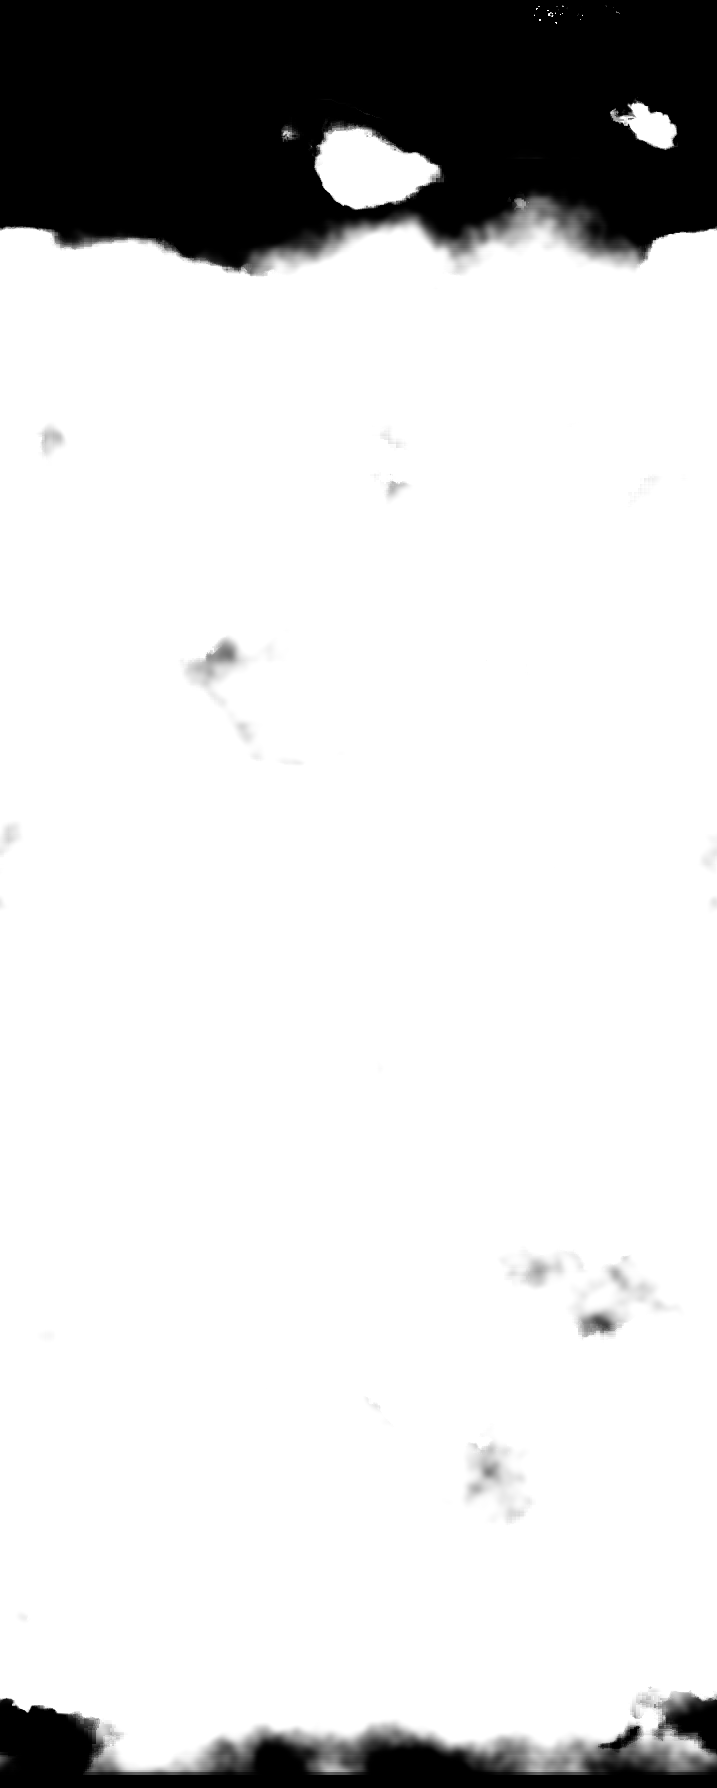
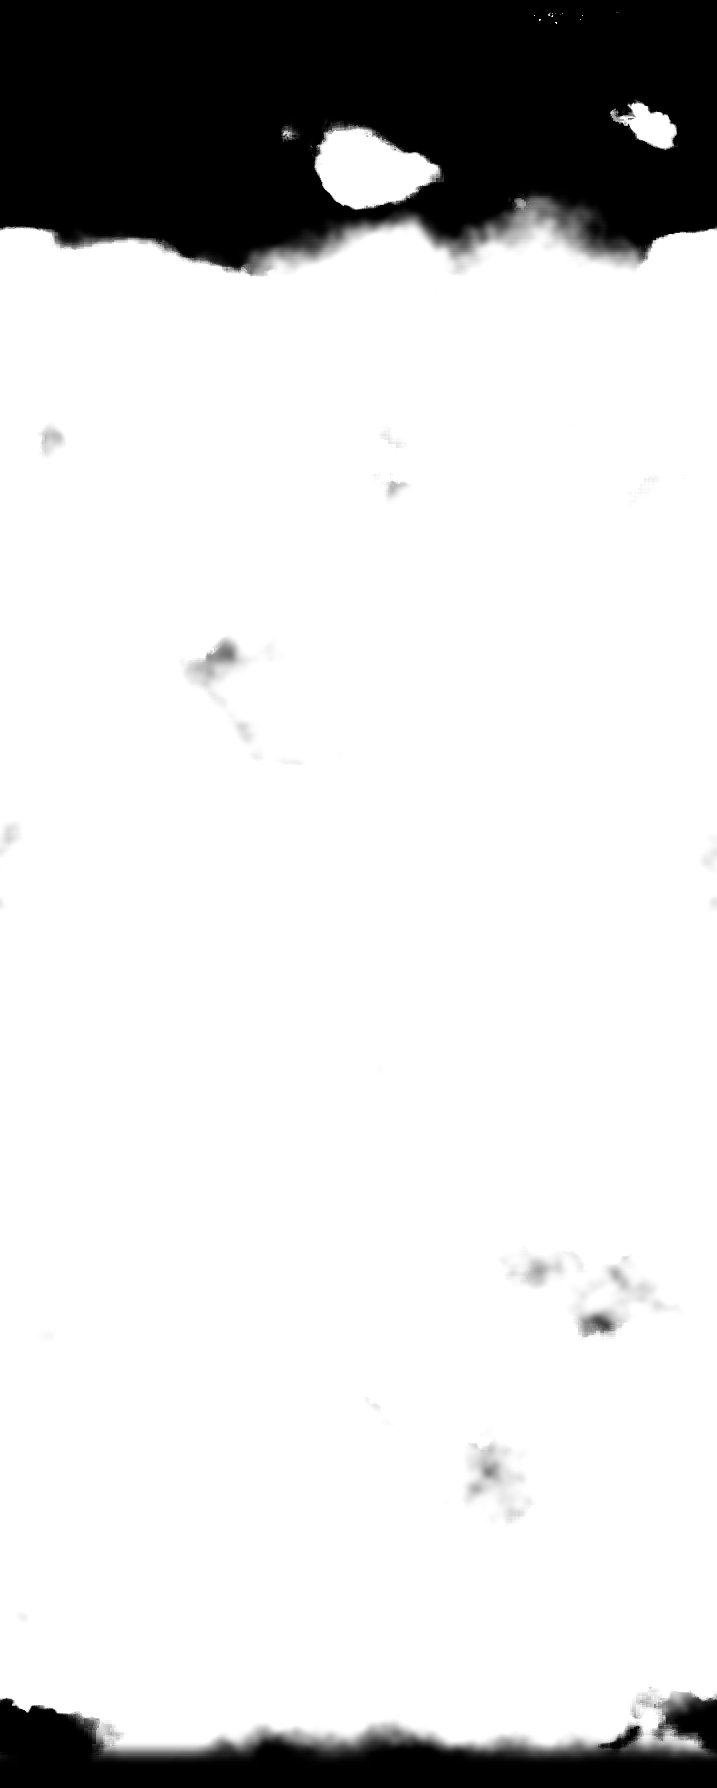
Lighting (a try): a sun breaking through, and cloud shadows
A warm glow with soft rays up on the right, over the sky and behind the
logo and the bank; it brightens as you scroll and its rays turn slowly.
The puffs cast soft shadows on the bank and the wisps on the texts, down
and to the left, drifting with them. The logo's mask ignores the thinnest
haze (it cut into the trailer button at rest), and the button is no
longer masked. Before: the tag pre-lighting.

Changed region(s): [[0.6137, 0.9536, 1.0, 1.0], [0.1227, 0.9536, 0.3682, 1.0], [0.4296, 0.9536, 0.5216, 1.0]]

diff --git a/public/style.css b/public/style.css
@@ -135,6 +135,32 @@ html, body { background: var(--page, #939ca2); transition: background-color 0.4s
   transform: translate3d(0, var(--sky-y, 0px), 0);
   will-change: transform;
 }
+/* The sun behind the clouds, up and to the right: a warm glow with soft rays, over the
+   sky photo and behind the logo and the cloud bank. main.js sets --sun (0 to 1): it
+   breaks through as you scroll, and sinks a little with the sky. */
+.intro-logo::after {
+  content: "";
+  position: absolute;
+  z-index: -1;
+  left: 50%;
+  top: 6%;
+  width: 150vmax;
+  height: 150vmax;
+  margin-left: -45vmax;
+  margin-top: -75vmax;
+  pointer-events: none;
+  background:
+    radial-gradient(closest-side, rgba(255, 244, 222, 0.85), rgba(255, 236, 205, 0.35) 18%, rgba(255, 230, 200, 0.08) 45%, transparent 70%),
+    repeating-conic-gradient(from 0deg, rgba(255, 240, 215, 0.07) 0deg, transparent 4deg 13deg, rgba(255, 240, 215, 0.07) 17deg),
+    repeating-conic-gradient(from 7deg, rgba(255, 240, 215, 0.05) 0deg, transparent 3deg 6deg, rgba(255, 240, 215, 0.05) 9deg);
+  -webkit-mask: radial-gradient(closest-side, #000 10%, rgba(0, 0, 0, 0.5) 40%, transparent 72%);
+  mask: radial-gradient(closest-side, #000 10%, rgba(0, 0, 0, 0.5) 40%, transparent 72%);
+  mix-blend-mode: screen;
+  filter: blur(3px);
+  opacity: var(--sun, 0.4);
+  transform: translate3d(0, calc(var(--sky-y, 0px) * 0.8), 0) rotate(var(--sun-turn, 0deg));
+  will-change: transform, opacity;
+}
 /* The logo with a very faint glow baked in (the glow adds 5.3% of the width around it;
    baked in because iPhone Safari can paint CSS-glowed images as white boxes). */
 .intro-logo picture { display: contents; } /* the image lays out as before */
@@ -208,10 +234,16 @@ html, body { background: var(--page, #939ca2); transition: background-color 0.4s
   animation: cloud-drift 55s linear infinite;
   will-change: transform;
 }
-.clouds-mid { z-index: 2; --layer-h: 360vh; height: var(--layer-h); }
+.clouds-mid { z-index: 3; --layer-h: 360vh; height: var(--layer-h); }
 .clouds-mid div { background-image: url(clouds-mid.webp); }
-.clouds-veil { z-index: 4; --layer-h: 480vh; height: var(--layer-h); }
+.clouds-veil { z-index: 6; --layer-h: 480vh; height: var(--layer-h); }
 .clouds-veil div { background-image: url(clouds-veil.webp); animation-duration: 40s; }
+/* Their shadows, cast down and to the left (the sun is up on the right): the same
+   puffs, dark and blurred, a little lower, just under them (the puffs' on the bank,
+   the wisps' on the texts), drifting with them. */
+.cloud-layer.shadow div { filter: brightness(0) blur(18px); }
+.clouds-mid.shadow { z-index: 2; opacity: 0.2; }
+.clouds-veil.shadow { z-index: 5; opacity: 0.16; }
 @media (prefers-reduced-motion: reduce) {
   .cloud-layer div { animation: none; }
 }
@@ -231,7 +263,7 @@ html, body { background: var(--page, #939ca2); transition: background-color 0.4s
   top: 0;
   left: 0;
   right: 0;
-  z-index: 3; /* above the clouds and the puffs behind it, below the thin wisps and the menu */
+  z-index: 4; /* above the clouds and the puffs behind it, below the wisps (and their shadows) and the menu */
   height: 100vh;
   height: 100svh;
   pointer-events: none;

diff --git a/public/main.js b/public/main.js
@@ -24,7 +24,13 @@ const cloudTile = document.querySelector(".clouds");
 // Clouds nearer than the bank, and how much faster than it they move: puffs behind the
 // texts, thin wisps in front of them. Their tops are at the top of the screen when the
 // bank's edge (12% down it) reaches the middle of the screen.
-const cloudLayers = [[document.querySelector(".clouds-mid"), 1.3], [document.querySelector(".clouds-veil"), 1.7]];
+// Each also casts a shadow, a little lower and to the left (in screen heights).
+const cloudLayers = [
+  [document.querySelector(".clouds-mid:not(.shadow)"), 1.3, 0, 0],
+  [document.querySelector(".clouds-mid.shadow"), 1.3, 0.07, -0.03],
+  [document.querySelector(".clouds-veil:not(.shadow)"), 1.7, 0, 0],
+  [document.querySelector(".clouds-veil.shadow"), 1.7, 0.05, -0.02]
+];
 const watch = document.querySelector(".intro-logo .watch");
 
 // 0 before a, 1 after b, linear in between.
@@ -95,20 +101,25 @@ function update() {
 
   // The sky behind the logo moves up, at a third of the scrolling (it's far away).
   introLogo.style.setProperty("--sky-y", `${(-0.35 * Math.min(window.scrollY, logoHold.offsetHeight)).toFixed(1)}px`);
+  // The sun breaks through as you scroll (brightest as the clouds come over the logo),
+  // its rays turning slowly.
+  const sunUp = Math.min(1, window.scrollY / (0.6 * vh));
+  introLogo.style.setProperty("--sun", (0.35 + 0.65 * ease(sunUp)).toFixed(3));
+  introLogo.style.setProperty("--sun-turn", `${(window.scrollY * 0.01).toFixed(2)}deg`);
 
   // The nearer clouds.
   const edgeAtMiddle = 0.5 * vh - 0.12 * bank.height;
-  for (const [layer, speed] of cloudLayers) {
-    const ly = speed * (bank.top - edgeAtMiddle);
+  for (const [layer, speed, down, side] of cloudLayers) {
+    const ly = speed * (bank.top - edgeAtMiddle) + down * vh;
     layer.style.visibility = ly < vh && ly + layer.offsetHeight > 0 ? "visible" : "hidden";
-    layer.style.transform = `translate3d(0, ${ly.toFixed(1)}px, 0)`;
+    layer.style.transform = `translate3d(${(side * vh).toFixed(1)}px, ${ly.toFixed(1)}px, 0)`;
   }
 
-  // The logo and its button go behind the bank: masked with clouds-mask.webp (clear
+  // The logo goes behind the bank (not its button, which stays readable): masked with clouds-mask.webp (clear
   // where the bank has any cloud, even haze), kept on the bank's place and its drift,
   // and in full above the bank's top. Followed frame by frame while the bank's edge is
   // over them (the bank keeps drifting when the page doesn't scroll).
-  for (const el of [logo, watch]) {
+  for (const el of [logo]) {
     const r = el.getBoundingClientRect();
     const k = el.offsetWidth ? r.width / el.offsetWidth : 1; // the logo's own shrinking
     const my = (bank.top - r.top) / k;

diff --git a/public/index.html b/public/index.html
@@ -102,9 +102,11 @@
       </figure>
     </div>
 
-  <!-- Clouds at other depths, nearer than the bank: puffs behind the texts, thin wisps
-       in front of them (main.js moves them, faster than the bank). -->
+  <!-- Clouds at other depths, nearer than the bank: puffs behind the texts, wisps in
+       front of them, each with its shadow (main.js moves them, faster than the bank). -->
+  <div class="cloud-layer clouds-mid shadow" aria-hidden="true"><div></div></div>
   <div class="cloud-layer clouds-mid" aria-hidden="true"><div></div></div>
+  <div class="cloud-layer clouds-veil shadow" aria-hidden="true"><div></div></div>
   <div class="cloud-layer clouds-veil" aria-hidden="true"><div></div></div>
 
   <script src="menu.js"></script>

diff --git a/tools/cloud_depth.py b/tools/cloud_depth.py
@@ -85,7 +85,7 @@ form = smooth(np.percentile(lit, 80), np.percentile(lit, 25), lum)  # 1 on the d
 H0, W0 = alpha.shape
 lumps = noise(H0, W0, [(W0 * 0.1, 0.65), (W0 * 0.035, 0.25), (W0 * 0.012, 0.1)])
 score = alpha + 0.55 * (form - 0.5) * (alpha > 0.02) + 0.9 * (lumps - 0.5)
-keep = 1 - smooth(0.22, 0.55, score) * smooth(0.0, 0.05, alpha)  # a soft edge: letters melt into the cloud
+keep = 1 - smooth(0.22, 0.55, score) * smooth(0.06, 0.25, alpha)  # a soft edge: letters melt into the cloud (thin haze hides nothing)
 m = np.zeros(alpha.shape + (4,), np.uint8)
 m[..., 3] = (keep * 255).astype(np.uint8)
 Image.fromarray(m).save(f"{out}/clouds-mask.png")

diff --git a/README.md b/README.md
@@ -4,7 +4,7 @@ Static website, served by Render from `public/` (no build step).
 
 - `public/favicon.png`, `apple-touch-icon.png` — the icon: mountain ridges in the evening haze
 - `public/laurels.webp` — festival laurels at the top of the homepage, nine in one strip, each sized to the same visual weight, built from the trimmed originals in `tools/laurels/` (one row beside the menu button; on phones the same strip in one row above the logo, drifting right to left for ever and draggable (main.js))
-- `public/index.html`, `style.css`, `main.js` — homepage: logo over the sky photo (`sky.webp`), the storm clouds (`clouds.webp`, a seamless sideways tile drifting steadily with the wind; the sky photo behind the logo moves up at a third of the scrolling; the logo and its button are masked with `clouds-mask.webp` so they go behind the bank (hidden even where it is only haze) instead of showing through; nearer layers move and drift faster the closer they are: puffs between the bank and the texts (`clouds-mid.webp`) and see-through wisps in front of them (`clouds-veil.webp`), all made by `tools/cloud_depth.py`; the logline and quotes ride up into the centre and stay, the last (Variety) going behind the cumulus near the bank's bottom as it rises (masked with `clouds-below-mask.webp`); arriving over the top third of the video and scrolling on away as it zooms in, made from the storm photo by `tools/clouds.py`: a top edge shaped by the cloud forms, softened toward the film's overcast sky lower down, the thick middle extended, the bottom faded) scroll up over it carrying the logline and two press quotes (Screen Daily, then Variety; logos `press-*.png`), each cross-fading into the next and fade onto the film clip (`bg2-light.mp4`, 1280 wide and under 1 MB, is what the loading screen waits for; the full-quality `bg2.mp4`, 12 s, 1920×1072, H.264, no audio, then loads behind it and fades in over it, in step; `bg2-poster.webp`, its first frame, shows until it plays), which plays and loops on its own while on screen (on phones it starts 2 s in the first time, then loops whole; `bg2-poster-mobile.webp` is that frame); scrolling on zooms it straight in and blurs it (not fully); as it blurs, the poster (`poster.webp`), the synopsis and the About the film and trailer buttons come into focus in place, over the blurred video, still playing (on phones stacked: poster full width, heading, synopsis, buttons, footer, moved up by main.js over the pinned video as you scroll, from the moment it starts to show), and the page ends there. A loading screen (the light sky colour #939ca2, a small dark blue bar and percentage) holds the page until fonts, images and the clip are loaded; then the logo comes into focus
+- `public/index.html`, `style.css`, `main.js` — homepage: logo over the sky photo (`sky.webp`), the storm clouds (`clouds.webp`, a seamless sideways tile drifting steadily with the wind; the sky photo behind the logo moves up at a third of the scrolling; the logo and its button are masked with `clouds-mask.webp` so they go behind the bank (hidden even where it is only haze) instead of showing through; nearer layers move and drift faster the closer they are: puffs between the bank and the texts (`clouds-mid.webp`) and see-through wisps in front of them (`clouds-veil.webp`), all made by `tools/cloud_depth.py`; a warm sun glow with soft rays (up on the right, behind the logo and the bank) breaks through as you scroll; the puffs and wisps cast soft shadows down and to the left (on the bank, and on the texts); the logline and quotes ride up into the centre and stay, the last (Variety) going behind the cumulus near the bank's bottom as it rises (masked with `clouds-below-mask.webp`); arriving over the top third of the video and scrolling on away as it zooms in, made from the storm photo by `tools/clouds.py`: a top edge shaped by the cloud forms, softened toward the film's overcast sky lower down, the thick middle extended, the bottom faded) scroll up over it carrying the logline and two press quotes (Screen Daily, then Variety; logos `press-*.png`), each cross-fading into the next and fade onto the film clip (`bg2-light.mp4`, 1280 wide and under 1 MB, is what the loading screen waits for; the full-quality `bg2.mp4`, 12 s, 1920×1072, H.264, no audio, then loads behind it and fades in over it, in step; `bg2-poster.webp`, its first frame, shows until it plays), which plays and loops on its own while on screen (on phones it starts 2 s in the first time, then loops whole; `bg2-poster-mobile.webp` is that frame); scrolling on zooms it straight in and blurs it (not fully); as it blurs, the poster (`poster.webp`), the synopsis and the About the film and trailer buttons come into focus in place, over the blurred video, still playing (on phones stacked: poster full width, heading, synopsis, buttons, footer, moved up by main.js over the pinned video as you scroll, from the moment it starts to show), and the page ends there. A loading screen (the light sky colour #939ca2, a small dark blue bar and percentage) holds the page until fonts, images and the clip are loaded; then the logo comes into focus
 - `public/gate.js` — password screen on every page (remembered in the browser once entered). Keeps casual visitors out only: the files themselves stay reachable. To change the password, put its hash (see `hash()` in the file) in `HASH`
 - `public/trailer.js` — "Watch the trailer" buttons (under the logo and beside About the film) open the YouTube trailer in a player over the darkened page
 - `public/site.css`, `menu.js`, `menu.html` — shared styles and the menu (a pill at the top right: three lines, then MENU; it opens the menu as a page of its own, `menu.html`, in its own darker olive, so iPhone Safari's bands match it; the X goes back to the page you came from, where you were; pages cross-fade where browsers can): Home, About the film, Screenings & Awards, Press, Soundtrack, Community (listed at the top of `menu.js`; the page you are on in italics), and the footer on every page (credits, designer, Instagram, Facebook, IMDb, TMDB; on the homepage at the bottom of the synopsis screen)
